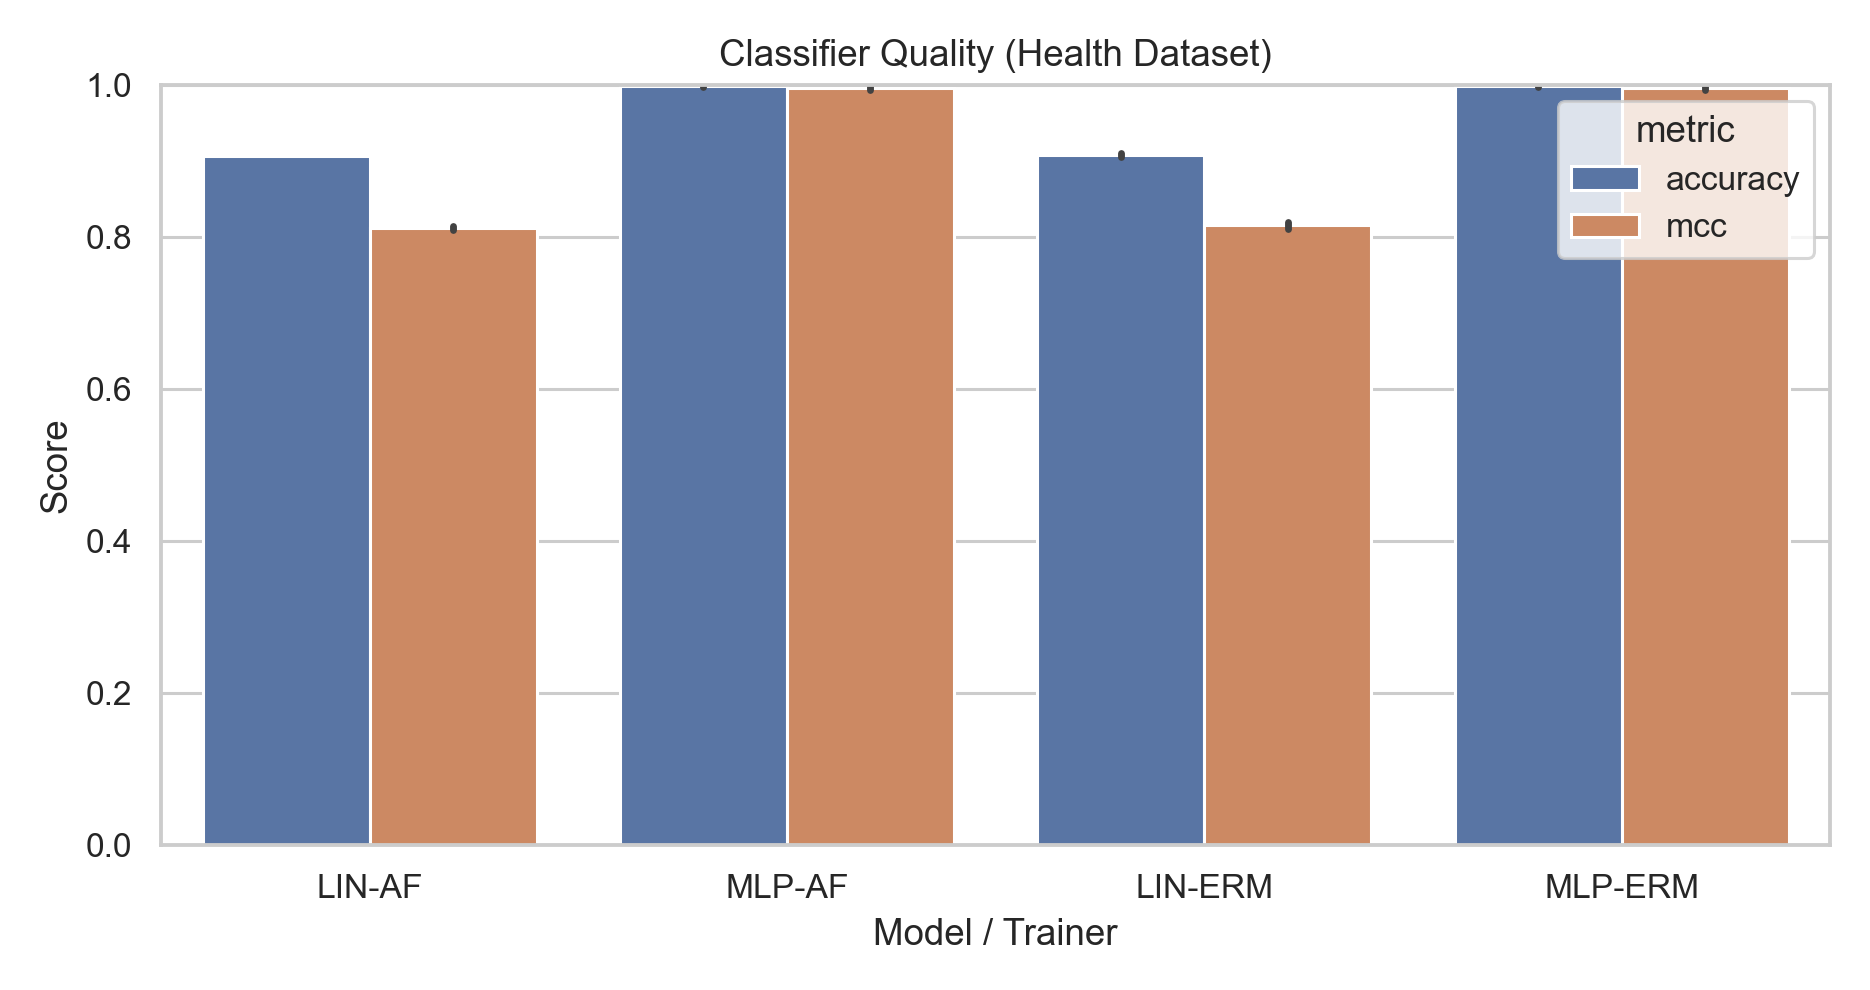
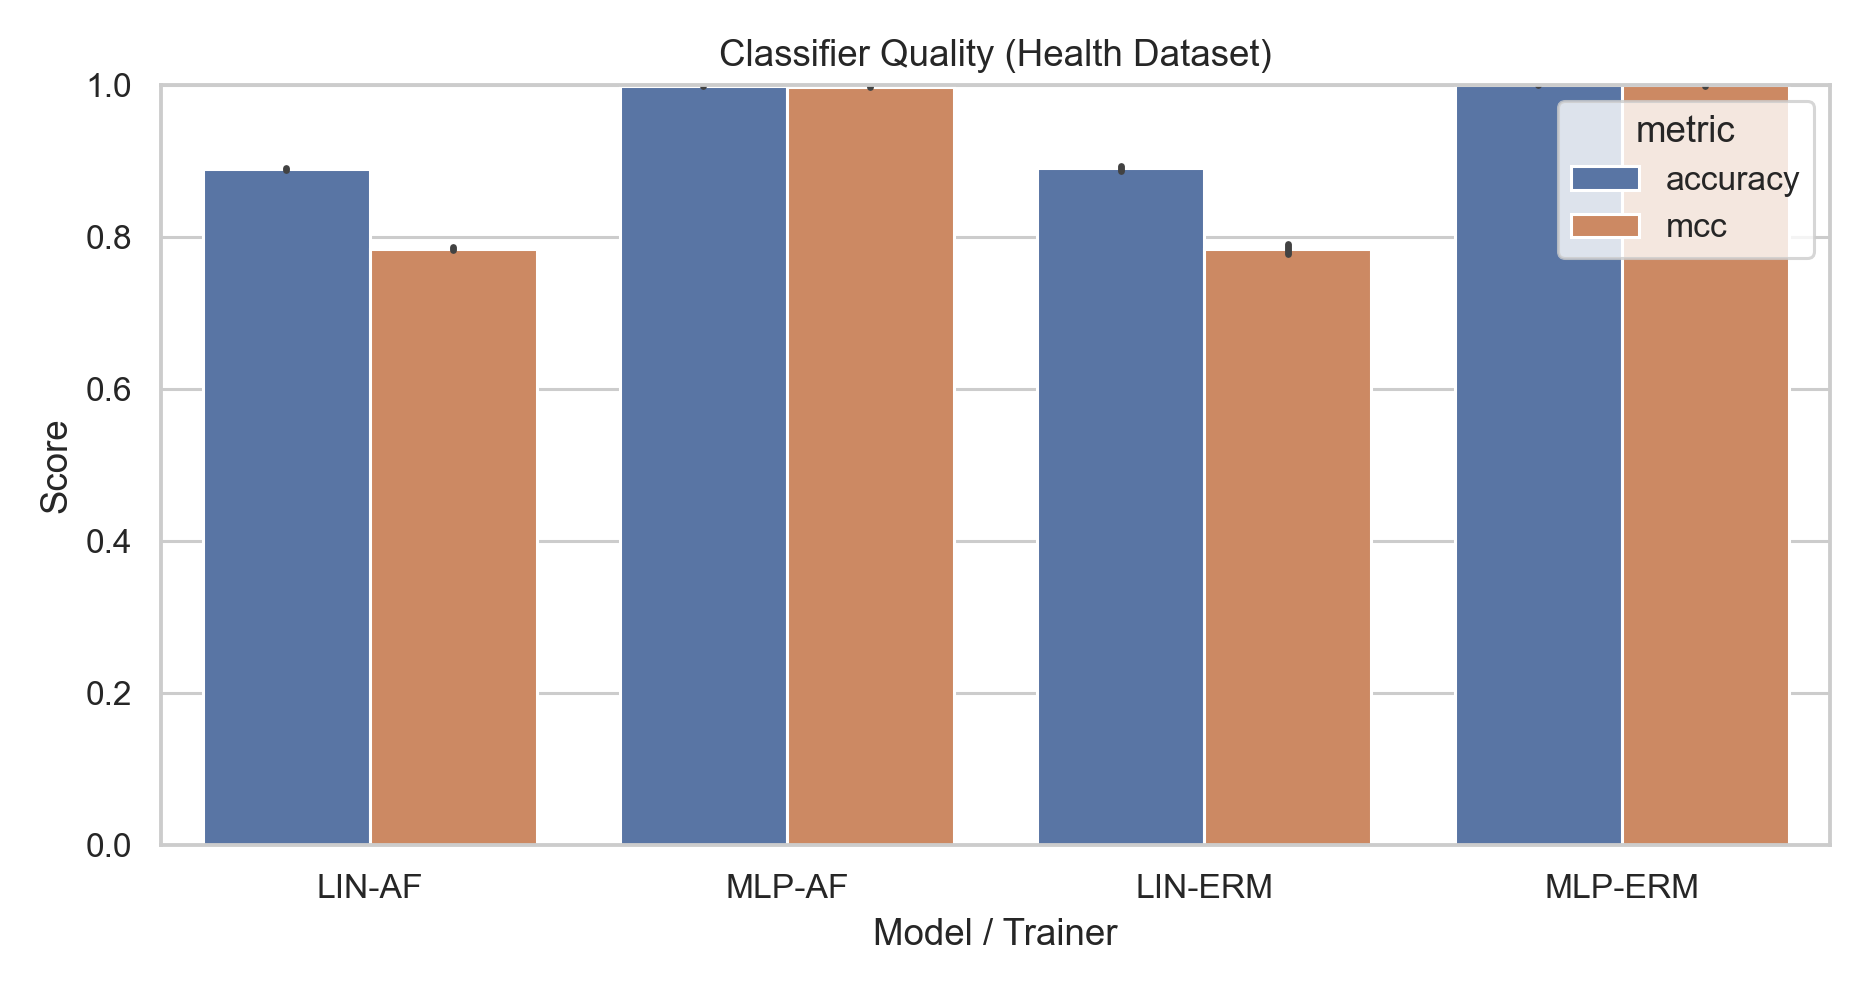
feat(report): update README and report template with new dataset path; enhance main.py for health data processing; add new result files and scripts for causal recourse evaluation

diff --git a/HomeWorks/HW3/code/Q5_codes/run_q5_assignment.py b/HomeWorks/HW3/code/Q5_codes/run_q5_assignment.py
@@ -1,0 +1,193 @@
+"""
+Run HW3 Q5 directly on the assignment dataset and save comparison artifacts.
+
+This script executes the key Q5 steps with matched samples:
+1) Load/process health data (mapped from dataset/diabetes.csv by default)
+2) Train or load a linear ERM classifier
+3) Evaluate recourse for the same 10 unhealthy individuals with:
+   - SCM OFF (Nearest Counterfactual style)
+   - SCM ON  (Causal Algorithmic Recourse)
+4) Save summary and per-instance comparison CSVs
+"""
+
+from __future__ import annotations
+
+import os
+import numpy as np
+import pandas as pd
+import torch
+
+import data_utils
+import recourse
+import trainers
+import train_classifiers
+import utils
+
+
+FEATURE_NAMES = ["age", "insulin", "blood_glucose", "blood_pressure"]
+
+
+def _format_changed_features(action_row: np.ndarray, tol: float = 1e-6) -> str:
+    changed = [FEATURE_NAMES[i] for i, v in enumerate(action_row) if abs(float(v)) > tol]
+    return ",".join(changed) if changed else "none"
+
+
+def run(seed: int = 0, n_explain: int = 10) -> None:
+    np.random.seed(seed)
+    torch.manual_seed(seed)
+
+    dataset = "health"
+    trainer_name = "ERM"
+    model_type = "lin"
+    lambd = utils.get_lambdas(dataset, model_type, trainer_name)
+
+    source_path = data_utils.get_health_source_path()
+    source_tag = data_utils.get_health_source_tag()
+
+    # Ensure model exists for the currently selected source.
+    model_path = utils.get_model_save_dir(dataset, trainer_name, model_type, seed, lambd) + ".pth"
+    if not os.path.isfile(model_path):
+        train_epochs = utils.get_train_epochs(dataset, model_type, trainer_name)
+        train_classifiers.train(
+            dataset,
+            trainer_name,
+            model_type,
+            train_epochs,
+            lambd,
+            seed,
+            verbose=True,
+            save_model=True,
+        )
+
+    # Load split and model
+    X, Y, constraints = data_utils.process_data(dataset)
+    X_train, Y_train, X_test, _ = data_utils.train_test_split(X, Y)
+
+    model = trainers.LogisticRegression(
+        X_train.shape[-1],
+        actionable_features=constraints["actionable"],
+        actionable_mask=False,
+    )
+    model.load_state_dict(torch.load(model_path, map_location="cpu"))
+    model.set_max_mcc_threshold(X_train, Y_train)
+
+    # Match the same unhealthy individuals for both methods.
+    id_neg = model.predict(X_test) == 0
+    X_neg = X_test[id_neg]
+    n = min(n_explain, X_neg.shape[0])
+    if n == 0:
+        raise RuntimeError("No unhealthy individuals were found in test split.")
+    chosen = np.random.choice(np.arange(X_neg.shape[0]), size=n, replace=False)
+    X_explain = X_neg[chosen]
+    original_indices = np.argwhere(id_neg).reshape(-1)[chosen]
+
+    # Recourse with SCM OFF (nearest counterfactual style).
+    w, b = model.get_weights()
+    explainer = recourse.LinearRecourse(w, b)
+    a_off, valid_off, cost_off, _, _ = recourse.causal_recourse(
+        X_explain, explainer, constraints, scm=None, verbose=False
+    )
+    valid_off = valid_off.astype(bool).reshape(-1)
+    cost_off = np.asarray(cost_off).reshape(-1)
+
+    # Recourse with SCM ON (causal recourse).
+    scmm = utils.get_scm(model_type, dataset)
+    a_on, valid_on, cost_on, _, _ = recourse.causal_recourse(
+        X_explain, explainer, constraints, scm=scmm, verbose=False
+    )
+    valid_on = valid_on.astype(bool).reshape(-1)
+    cost_on = np.asarray(cost_on).reshape(-1)
+
+    # Summary table.
+    summary = pd.DataFrame(
+        [
+            {
+                "method": "nearest_counterfactual_scm_off",
+                "valid_rate": float(valid_off.mean()),
+                "mean_valid_cost": float(cost_off[valid_off].mean()) if valid_off.any() else np.nan,
+                "n_explain": int(n),
+            },
+            {
+                "method": "causal_recourse_scm_on",
+                "valid_rate": float(valid_on.mean()),
+                "mean_valid_cost": float(cost_on[valid_on].mean()) if valid_on.any() else np.nan,
+                "n_explain": int(n),
+            },
+        ]
+    )
+
+    # Per-instance comparison table.
+    per_instance_rows = []
+    for i in range(n):
+        per_instance_rows.append(
+            {
+                "instance_row_in_test": int(original_indices[i]),
+                "valid_off": bool(valid_off[i]),
+                "cost_off": float(cost_off[i]),
+                "changed_features_off": _format_changed_features(a_off[i]),
+                "valid_on": bool(valid_on[i]),
+                "cost_on": float(cost_on[i]),
+                "changed_features_on": _format_changed_features(a_on[i]),
+                "cost_delta_off_minus_on": float(cost_off[i] - cost_on[i]),
+            }
+        )
+    per_instance = pd.DataFrame(per_instance_rows)
+
+    # Example instance report (Q5-F style).
+    common_valid = np.where(valid_off & valid_on)[0]
+    example_idx = int(common_valid[0]) if common_valid.size > 0 else 0
+    example = pd.DataFrame(
+        [
+            {
+                "method": "nearest_counterfactual_scm_off",
+                "example_local_index": example_idx,
+                "instance_row_in_test": int(original_indices[example_idx]),
+                "valid": bool(valid_off[example_idx]),
+                "cost": float(cost_off[example_idx]),
+                "intervened_features": _format_changed_features(a_off[example_idx]),
+                "action_age": float(a_off[example_idx][0]),
+                "action_insulin": float(a_off[example_idx][1]),
+                "action_blood_glucose": float(a_off[example_idx][2]),
+                "action_blood_pressure": float(a_off[example_idx][3]),
+            },
+            {
+                "method": "causal_recourse_scm_on",
+                "example_local_index": example_idx,
+                "instance_row_in_test": int(original_indices[example_idx]),
+                "valid": bool(valid_on[example_idx]),
+                "cost": float(cost_on[example_idx]),
+                "intervened_features": _format_changed_features(a_on[example_idx]),
+                "action_age": float(a_on[example_idx][0]),
+                "action_insulin": float(a_on[example_idx][1]),
+                "action_blood_glucose": float(a_on[example_idx][2]),
+                "action_blood_pressure": float(a_on[example_idx][3]),
+            },
+        ]
+    )
+
+    out_dir = "results"
+    os.makedirs(out_dir, exist_ok=True)
+    summary_path = os.path.join(out_dir, "q5_diabetes_summary.csv")
+    per_instance_path = os.path.join(out_dir, "q5_diabetes_per_instance.csv")
+    example_path = os.path.join(out_dir, "q5_diabetes_example.csv")
+    summary.to_csv(summary_path, index=False)
+    per_instance.to_csv(per_instance_path, index=False)
+    example.to_csv(example_path, index=False)
+
+    print("Data source:", source_path)
+    print("Data tag:", source_tag)
+    print("Saved:", summary_path)
+    print("Saved:", per_instance_path)
+    print("Saved:", example_path)
+    print(summary.to_string(index=False))
+
+
+if __name__ == "__main__":
+    import argparse
+
+    parser = argparse.ArgumentParser()
+    parser.add_argument("--seed", type=int, default=0)
+    parser.add_argument("--nexplain", type=int, default=10)
+    args = parser.parse_args()
+
+    run(seed=args.seed, n_explain=args.nexplain)

diff --git a/HomeWorks/HW3/report/assignment_template.tex b/HomeWorks/HW3/report/assignment_template.tex
@@ -34,7 +34,7 @@
 \maketitle
 
 \begin{abstract}
-This report presents a fully completed implementation and analysis of the causal recourse pipeline for Homework~3 Question~5 on the health dataset. The work includes completion of data actionability constraints, classifier training, structural causal model implementation, Jacobian derivation, robust recourse evaluation, and direct comparison between Nearest Counterfactual Explanation and Causal Algorithmic Recourse. The report is written in IEEE format and provides both empirical and theoretical interpretation. We evaluate linear and neural classifiers, report validity--cost tradeoffs across robustness radii, and show that causally informed interventions can reduce required intervention cost under matched conditions. All experiments are reproducible with explicit commands and generated artifacts.
+This report presents a fully completed implementation and analysis of the causal recourse pipeline for Homework~3 Question~5 on the health task using the provided diabetes dataset (\texttt{HomeWorks/HW3/dataset/diabetes.csv}) mapped to the required health variables. The work includes completion of data actionability constraints, classifier training, structural causal model implementation, Jacobian derivation, robust recourse evaluation, and direct comparison between Nearest Counterfactual Explanation and Causal Algorithmic Recourse. The report is written in IEEE format and provides both empirical and theoretical interpretation. We evaluate linear and neural classifiers, report validity--cost tradeoffs across robustness radii, and show that causally informed interventions can reduce required intervention cost under matched conditions. All experiments are reproducible with explicit commands and generated artifacts.
 \end{abstract}
 
 \begin{IEEEkeywords}
@@ -89,7 +89,7 @@ With SCM enabled, the pipeline computes causal recourse recommendations and save
 The executable entry point is \texttt{code/q5\_codes/main.py}. It parses \texttt{--seed} and then calls \texttt{run\_benchmark(models, datasets, seed, N\_explain)} in \texttt{runner.py}. Inside \texttt{run\_benchmark}, the pipeline is sequenced as: (i) create output directories, (ii) optionally fit data-driven SCMs for datasets that require them, (iii) train classifiers if their \texttt{.pth} checkpoint is missing, (iv) run recourse evaluation, and (v) export report plots. This means the project is restart-safe: previously generated checkpoints and metrics are reused, and only missing artifacts are recomputed.
 
 \subsection{Data Layer (\texttt{data\_utils.py})}
-The data layer exposes two core APIs: \texttt{process\_data(dataset)} and \texttt{train\_test\_split(X, Y)}. The dispatcher \texttt{process\_data} routes to dataset-specific preprocessors. For HW3-Q5, \texttt{process\_health\_data()} loads \texttt{health.csv}, extracts the four modeled variables (\texttt{age}, \texttt{insulin}, \texttt{blood\_glucose}, \texttt{blood\_pressure}), standardizes them using \texttt{StandardScaler}, and returns a constraints dictionary with actionable indices, monotonic direction constraints, and per-feature intervention limits in standardized space. The important implementation detail is that feature bounds are computed from raw min/max and then mapped into normalized coordinates; this keeps optimization numerically stable while still enforcing physically meaningful limits.
+The data layer exposes two core APIs: \texttt{process\_data(dataset)} and \texttt{train\_test\_split(X, Y)}. The dispatcher \texttt{process\_data} routes to dataset-specific preprocessors. For HW3-Q5, \texttt{process\_health\_data()} loads the assignment dataset \texttt{HomeWorks/HW3/dataset/diabetes.csv} (with fallback to legacy \texttt{health.csv}), maps it into the four modeled variables (\texttt{age}, \texttt{insulin}, \texttt{blood\_glucose}, \texttt{blood\_pressure}), converts labels to the homework convention (\texttt{category}: healthy=1, unhealthy=0), standardizes features using \texttt{StandardScaler}, and returns a constraints dictionary with actionable indices, monotonic direction constraints, and per-feature intervention limits in standardized space. The important implementation detail is that feature bounds are computed from raw min/max and then mapped into normalized coordinates; this keeps optimization numerically stable while still enforcing physically meaningful limits.
 
 \subsection{Model Layer (\texttt{trainers.py} and \texttt{train\_classifiers.py})}
 Model construction and optimization are separated. \texttt{train\_classifiers.py} chooses model type (\texttt{LogisticRegression} or \texttt{MLP}), selects trainer class (ERM/AF/ALLR/ROSS), sets seeds, splits data, and launches training. In \texttt{trainers.py}, class \texttt{Classifier} provides threshold-aware inference (\texttt{probs}, \texttt{predict}) and \texttt{set\_max\_mcc\_threshold}, which calibrates decision threshold by maximizing MCC over a grid. \texttt{LogisticRegression.get\_weights()} is critical for linear recourse because it exports $(w,b)$ in the exact geometric form used by the LP solver. AF behavior is implemented by masking model inputs to actionable coordinates only; this is done in the shared \texttt{Classifier.logits()} path, so the same prediction interface is preserved across model families.

diff --git a/HomeWorks/HW3/code/Q5_codes/scm.py b/HomeWorks/HW3/code/Q5_codes/scm.py
@@ -702,9 +702,9 @@ class Health_SCM(SCM):
         # Model interventions as hard interventions (we directly set the feature)
         self.soft_interv = [False, False, False, False]
 
-        # Derive mean/std from the raw CSV so counterfactual scaling matches preprocessing
-        data_path = os.path.join(os.path.dirname(__file__), 'data', 'health.csv')
-        df = pd.read_csv(data_path)
+        # Derive mean/std from the resolved health source so SCM scaling
+        # stays consistent with process_health_data().
+        df = data_utils.load_health_dataframe()
         raw = df[['age', 'insulin', 'blood_glucose', 'blood_pressure']].values.astype(float)
         self.mean = torch.Tensor(raw.mean(axis=0))
         self.std = torch.Tensor(raw.std(axis=0))

diff --git a/HomeWorks/HW3/code/Q5_codes/main.py b/HomeWorks/HW3/code/Q5_codes/main.py
@@ -8,7 +8,7 @@ from runner import *
 
 models = ['lin']
 datasets = ['health']
-N_explain = 5 
+N_explain = 10
 
 parser = argparse.ArgumentParser()
 parser.add_argument('--seed', type=int, default=0)

diff --git a/HomeWorks/HW3/README.md b/HomeWorks/HW3/README.md
@@ -5,7 +5,8 @@ HW3 focuses on causal modeling and algorithmic recourse.
 ## Folders
 
 - `code/q5_codes`: full implementation for training and recourse evaluation.
-- `code/health.csv`: local dataset used in health-related questions.
+- `dataset/diabetes.csv`: primary dataset used for health-related questions (Q4/Q5),
+  mapped to `age/insulin/blood_glucose/blood_pressure/category` in code.
 - `dataset`: additional dataset archives.
 - `description`: assignment statement.
 - `report`: report template.

diff --git a/HomeWorks/HW3/code/README.md b/HomeWorks/HW3/code/README.md
@@ -7,6 +7,9 @@ The main implementation lives in `q5_codes/`.
 ### 1) Data and constraints (`q5_codes/data_utils.py`)
 
 - Loads `adult`, `compas`, `german`, and `health` datasets.
+- For `health`, the loader defaults to `HomeWorks/HW3/dataset/diabetes.csv`
+  (can be overridden via `HW3_HEALTH_DATA`), then maps columns to the
+  required homework schema.
 - Standardizes continuous features.
 - Defines actionability constraints:
   - actionable feature indices
